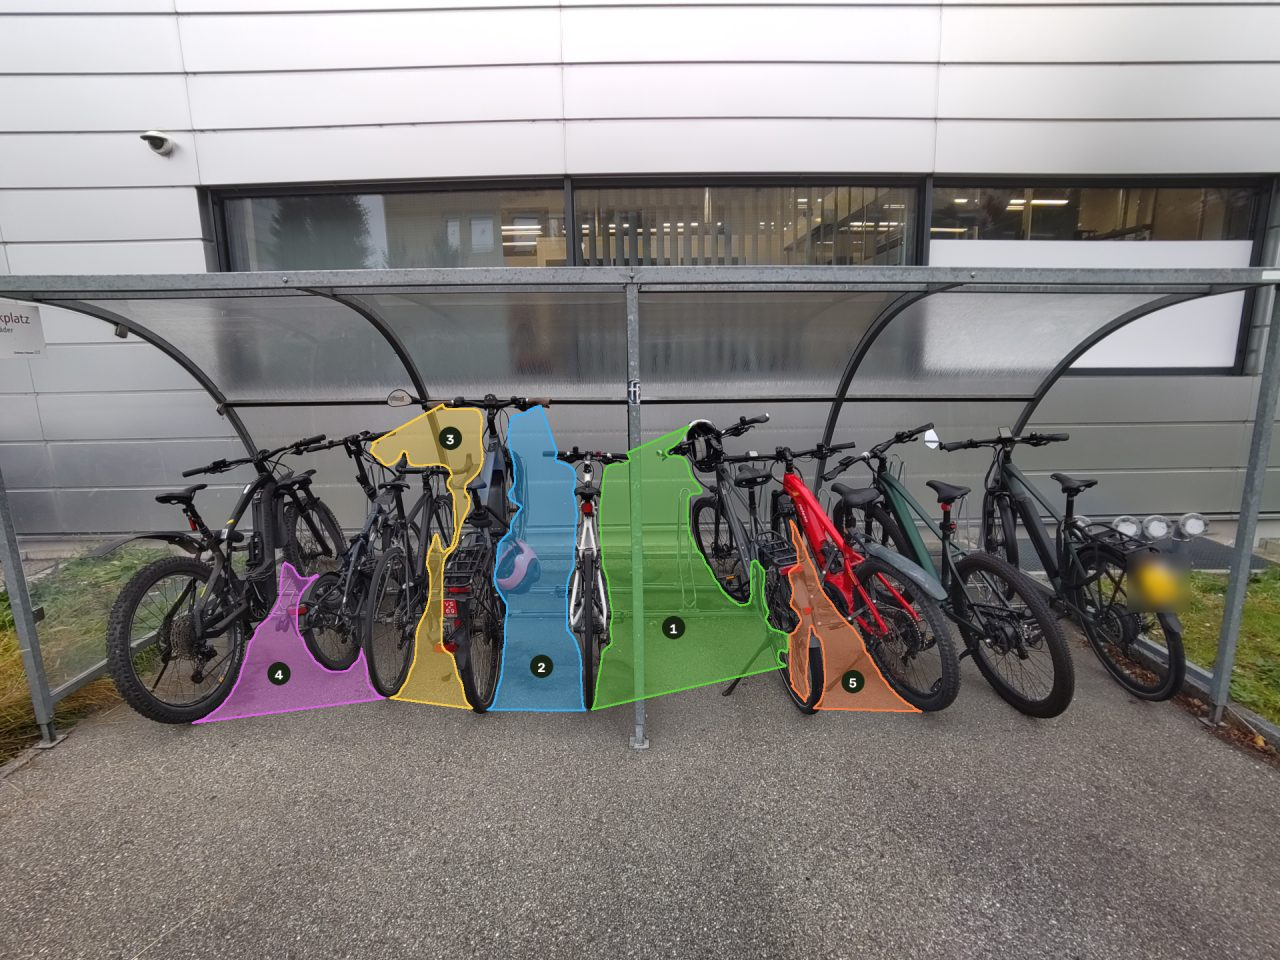
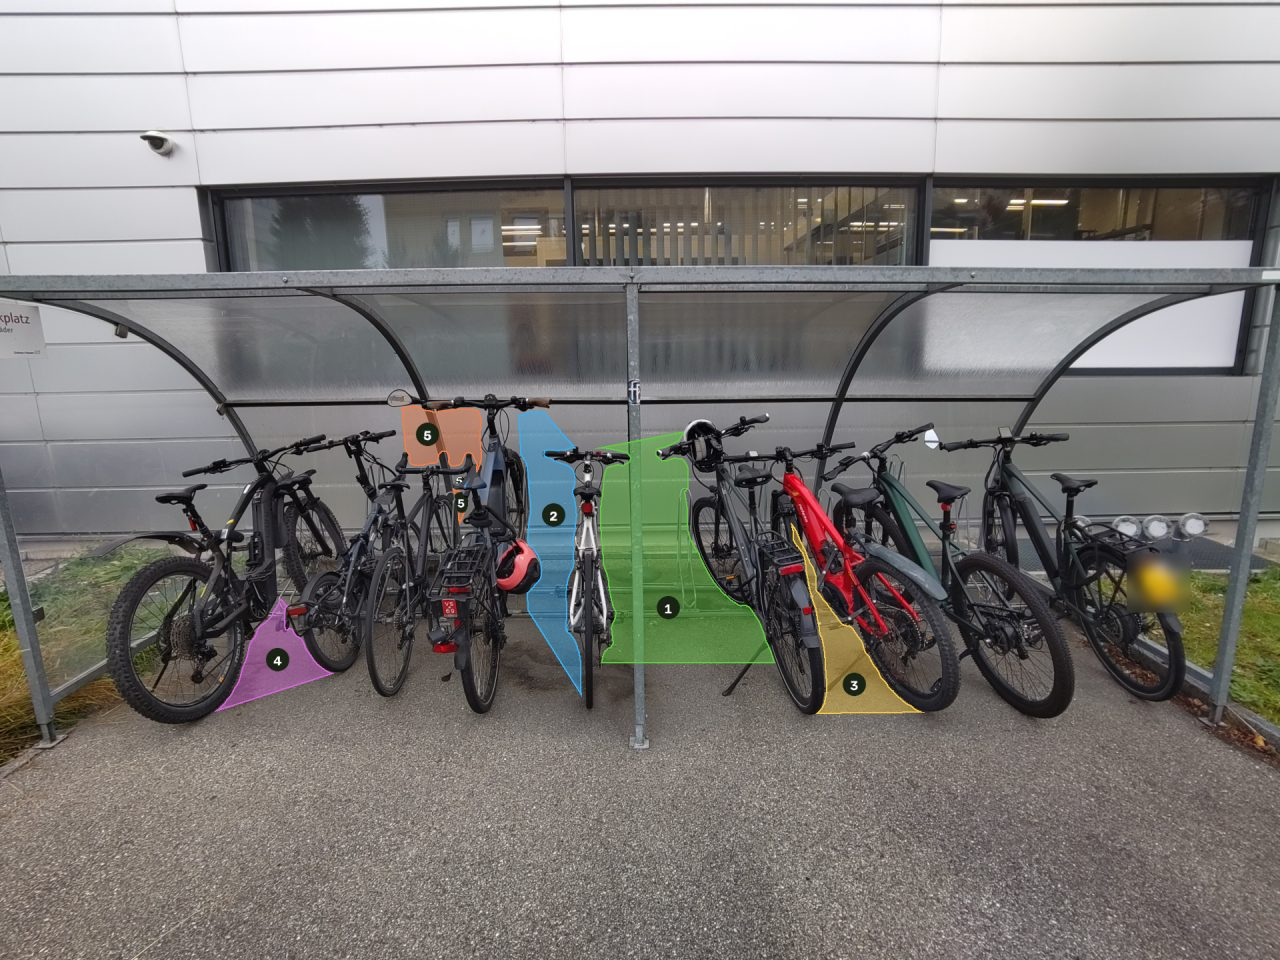
better detection

Changed region(s): [[0.1562, 0.4062, 0.7188, 0.75], [0.5312, 0.5, 0.5625, 0.5312]]

diff --git a/code/find-my-bike-slot/web/photos/snapshots.js b/code/find-my-bike-slot/web/photos/snapshots.js
@@ -4,39 +4,39 @@ export const SNAPSHOTS = {
   "west": {
     "photo": "photos/west.jpg",
     "taken_at": "2026-10-29T08:37:50",
-    "bikes": 6,
+    "bikes": 7,
     "free_estimate": 3,
-    "capacity": 9,
+    "capacity": 10,
     "bike_area_px2": 45000,
     "gaps": [
       {
         "rank": 1,
-        "area_px2": 107924,
-        "pos": 0.3,
+        "area_px2": 119159,
+        "pos": 0.27,
         "fits": 2
       },
       {
         "rank": 2,
-        "area_px2": 59700,
+        "area_px2": 58889,
         "pos": 0.58,
         "fits": 1
       },
       {
         "rank": 3,
-        "area_px2": 35617,
+        "area_px2": 32780,
         "pos": 0.45,
         "fits": 0
       },
       {
         "rank": 4,
-        "area_px2": 15434,
-        "pos": 0.75,
+        "area_px2": 12222,
+        "pos": 0.67,
         "fits": 0
       },
       {
         "rank": 5,
-        "area_px2": 7456,
-        "pos": 0.67,
+        "area_px2": 5068,
+        "pos": 0.78,
         "fits": 0
       }
     ]
@@ -44,39 +44,39 @@ export const SNAPSHOTS = {
   "east": {
     "photo": "photos/east.jpg",
     "taken_at": "2026-10-29T08:39:09",
-    "bikes": 10,
+    "bikes": 11,
     "free_estimate": 1,
-    "capacity": 11,
+    "capacity": 12,
     "bike_area_px2": 45000,
     "gaps": [
       {
         "rank": 1,
-        "area_px2": 67188,
-        "pos": 0.53,
+        "area_px2": 53352,
+        "pos": 0.52,
         "fits": 1
       },
       {
         "rank": 2,
-        "area_px2": 44204,
-        "pos": 0.42,
+        "area_px2": 22594,
+        "pos": 0.43,
         "fits": 0
       },
       {
         "rank": 3,
-        "area_px2": 24420,
-        "pos": 0.35,
+        "area_px2": 13635,
+        "pos": 0.67,
         "fits": 0
       },
       {
         "rank": 4,
-        "area_px2": 22309,
+        "area_px2": 11050,
         "pos": 0.22,
         "fits": 0
       },
       {
         "rank": 5,
-        "area_px2": 19069,
-        "pos": 0.67,
+        "area_px2": 9994,
+        "pos": 0.33,
         "fits": 0
       }
     ]
@@ -84,39 +84,39 @@ export const SNAPSHOTS = {
   "gate": {
     "photo": "photos/gate.jpg",
     "taken_at": "2026-10-29T08:45:21",
-    "bikes": 18,
-    "free_estimate": 3,
-    "capacity": 21,
+    "bikes": 32,
+    "free_estimate": 2,
+    "capacity": 34,
     "bike_area_px2": 30000,
     "gaps": [
       {
         "rank": 1,
-        "area_px2": 40750,
-        "pos": 0.73,
+        "area_px2": 53924,
+        "pos": 0.61,
         "fits": 1
       },
       {
         "rank": 2,
-        "area_px2": 35366,
-        "pos": 0.47,
+        "area_px2": 33118,
+        "pos": 0.8,
         "fits": 1
       },
       {
         "rank": 3,
-        "area_px2": 30035,
+        "area_px2": 24573,
         "pos": 0.52,
-        "fits": 1
+        "fits": 0
       },
       {
         "rank": 4,
-        "area_px2": 25568,
-        "pos": 0.87,
+        "area_px2": 19250,
+        "pos": 0.45,
         "fits": 0
       },
       {
         "rank": 5,
-        "area_px2": 19389,
-        "pos": 0.91,
+        "area_px2": 12947,
+        "pos": 0.38,
         "fits": 0
       }
     ]
